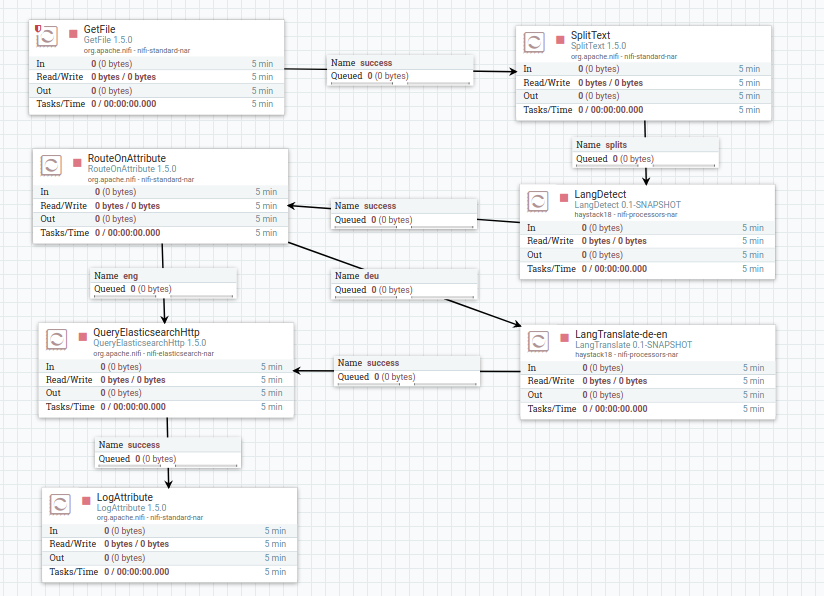
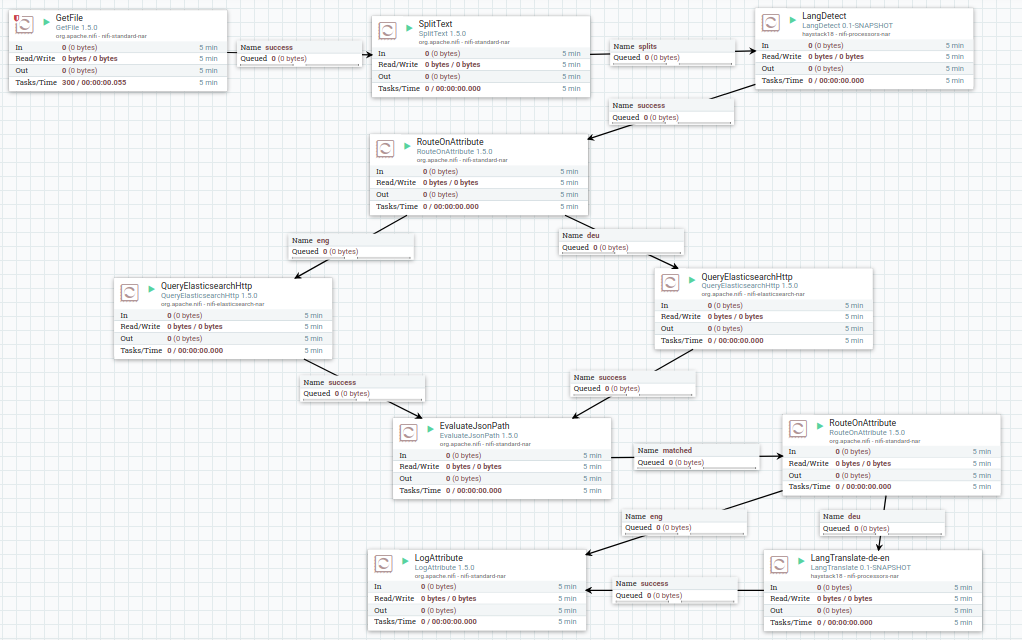
Updating flow.

diff --git a/README.md b/README.md
@@ -10,7 +10,9 @@ The OpenNLP langdetect model is included in `git lfs`.
 
 ### Apache NiFi Flow
 
-Here's an example flow using the processors in this repository. The flow reads files of search terms from the file system. The search terms are read one per line from each file. Language detection is then applied to each search term to appropriately route the search term to the next processor. English search terms are used to query the index, and German search terms are translated to English prior to searching.
+Here's an example flow using the processors in this repository. The flow reads files of search terms from the file system and follows an "English in, English out" approach.
+
+Each search term is translated to one of several languages. Each of these languages has a subset of Wikipedia indexed in a local Elasticsearch. The search results are returned and translated back to English.
 
 ![Flow](https://raw.githubusercontent.com/jzonthemtn/multilanguage-search/master/example-nifi-flow.png)
 
